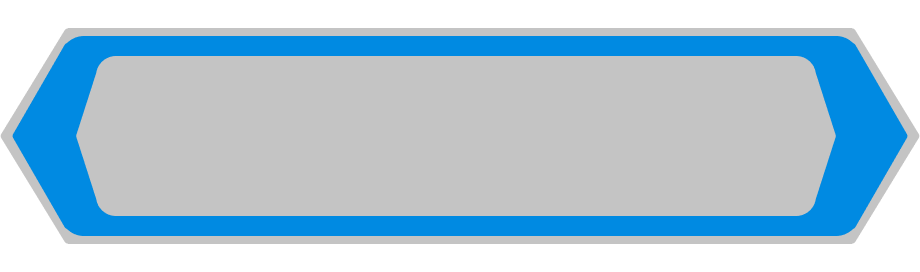
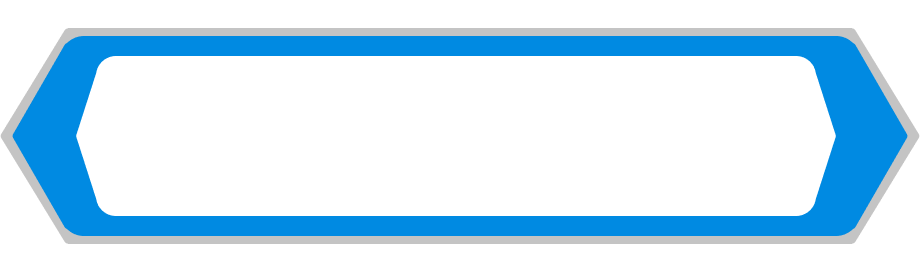
デザインが大体できた

diff --git a/src/App.tsx b/src/App.tsx
@@ -1,64 +1,96 @@
 import React, { useEffect, useCallback } from 'react';
+import { useNavigate } from 'react-router-dom';
 import './App.css';
 
 export const Game = () => {
   const [inputString, setinputString] = React.useState("")
+  const [typeStringlen, settypeStringlen] = React.useState(0)
+  const [answerTypeStringlen, setanswerTypeStringlen] = React.useState(0)
+  const navigate = useNavigate();
 
   useEffect(() => {
     document.addEventListener("keydown", keyFunction, false)
+    console.log("answernum", answerTypeStringlen)
   })
 
 
 
+
   const keyFunction = useCallback((event) => {
+    if (event.key == "Escape") {
+      navigate("/")
+    }
     setinputString(event.key)
   }, []);
 
 
   return (
     <div className='Game'>
-      <Inputbar answerString={inputString}></Inputbar>
+      <Inputbar answerString={inputString} updatetypeStringlen={settypeStringlen} updateanswerTypeStringlen={setanswerTypeStringlen} typeStringnum={typeStringlen} answerStringnum={answerTypeStringlen}></Inputbar>
     </div>
   )
 }
 
 type InputbarProps = {
   answerString: string;
+  typeStringnum: number;
+  answerStringnum: number;
+  updatetypeStringlen: any;
+  updateanswerTypeStringlen: any;
 }
 
 const Inputbar = (props: InputbarProps) => {
-  const questions: string[] = ["watnow", "gutti", "react", "vue", "kotlin", "swift", "python"]
+  const navigate = useNavigate();
+  const questions2: string[][] = [
+    ["烏丸丸太町", "karasumamarutamati"],
+    ["四条河原町", "sizyoukawaramati"],
+    ["葛野大路五条", "kadonooozigozyou"],
+    ["川端御池", "kawabataoike"],
+    ["川端二条","kawabatanizyou"],
+    ["北白川別当","kitashirakawabettou"],
+    ["荒神橋東詰","kouzinbashihigasidume"],
+    ["下鴨本通北大路","shimogamohondourikitaoozi"],
+    ["百万遍","hyakumanben"],
+    ["大宮木津屋橋","oomiyakiduyabashi"],
+    ["大宮七条","oomiyashitizyou"],
+    ["烏丸御池","karasumaoike"],
+    ["河原町御池","kawaramatioike"],
+    ["河原町八条","kawaramatihatizyou"],
+    ["五条七本松","gozyousitihonnmatu"],
+    ["五条御前","gozyouonmae"],
+    ["四条河原町","shizyoukawaramati"],
+    ["四条西洞院","sizyounishinotouin"],
+    ["四条堀川","shizyouhorikawa"],
+    ["七条壬生","shitizyoumibu"],
+    ["堀川高辻","horikawatakatuzi"],
+    ["西大路花屋町","nishioozihanayamati"],
+  ]
   const [counter, setCounter] = React.useState(0);
   const [questioncounter, setQuestioncounter] = React.useState(0);
   const [answerstring, setAnswer] = React.useState("");
-  const questionlength: number = questions[questioncounter].length;
-  const [gamestart, setGamestart] = React.useState(false);
-
-  // const handleKey = (e: React.KeyboardEvent<HTMLDivElement>) => {
-  //   judgement(e.key)
-  // }
-
-  const gameStart = () => {
-    setGamestart(true)
-  }
+  const [cssstyle, setCssStyle] = React.useState("")
+  const questionlength: number = questions2[questioncounter][1].length;
 
   const judgement = (value: string) => {
-    if (questions[questioncounter][counter] === value) {
+    if (questions2[questioncounter][1][counter] === value) {
       sound()
+      props.updateanswerTypeStringlen(props.answerStringnum + 1)
       setAnswer(answerstring + value)
       setCounter(counter + 1)
-      const c = counter
-      console.log("value", value, "counter", c)
-      console.log("正解")
     }
+    // props.updatetypeStringlen(props.typeStringnum + 1)
   }
 
   useEffect(() => {
-    if (gamestart) {
-      judgement(props.answerString)
+    if (questioncounter > 10) {
+      navigate("/result")
     }
+
+    judgement(props.answerString)
+
     if (questionlength === counter) {
       setQuestioncounter(questioncounter + 1)
+      setCssStyle("baranimation")
       setAnswer("")
       setCounter(0)
     }
@@ -73,7 +105,7 @@ const Inputbar = (props: InputbarProps) => {
 
 
 
-  const textOutputList = questions[questioncounter].split('').map((questionChar, index) => {
+  const textOutputList = questions2[questioncounter][1].split('').map((questionChar, index) => {
     return (
       <a><Textoutput key={questionChar} valuekey={index + 1} value={questionChar} answernum={counter}> </Textoutput></a>
     )
@@ -81,15 +113,15 @@ const Inputbar = (props: InputbarProps) => {
 
 
 
-    return (
-      <div className='inputbar'>
-        <div className='game'>
-          <QuestionBox question={questions} questionnum={questioncounter}></QuestionBox>
-          <div className='textOutput'>{textOutputList}</div>
-        </div>
+  return (
+    <div className={'inputbar ' + cssstyle}>
+      <div className='game'>
+        <QuestionBox question={questions2} questionnum={questioncounter}></QuestionBox>
+        <div className='textOutput'>{textOutputList}</div>
       </div>
-    )
-  
+    </div>
+  )
+
 }
 
 
@@ -102,7 +134,7 @@ type TextOutputProps = {
 }
 
 type QuestionProps = {
-  question: string[];
+  question: string[][];
   questionnum: number;
 }
 
@@ -110,7 +142,7 @@ type QuestionProps = {
 const QuestionBox = (props: QuestionProps) => {
   return (
     <div className='questionBox'>
-      {props.question[props.questionnum]}
+      {props.question[props.questionnum][0]}
     </div>
   );
 }

diff --git a/src/App.css b/src/App.css
@@ -1,18 +1,21 @@
 .inputbar {
-  background-image: url("../public/inputbar.png");
-  background-size: cover;
   border-radius: 2rem;
-  width: 70rem;
-  height: 20rem;
-  margin: 0 auto;
+  width: 100%;
+  padding-top: 20vh;
+  
+}
+
+.baranimation{
+    animation: anim 2.5s infinite linear;
 }
 
 .questionBox {
-  padding-top: 5rem;
-  font-size: 3rem;
+  padding-top: 5.5rem;
+  font-size: 5rem;
   height: 6rem;
   text-align: center;
-  color: whitesmoke;
+  color: #008AE2;
+  font-weight:bold
 }
 
 .textOutput {
@@ -23,34 +26,66 @@
 }
 
 .colorGray {
-  color: gray;
+  color: #008AE2;
 }
 
 .colorwhiteGray {
-  color: whitesmoke;
+  color: black;
+}
+
+.blue {
+  filter: invert(8%) sepia(99%) saturate(7044%) hue-rotate(247deg) brightness(100%) contrast(145%);
 }
 
 .Game {
   /* text-align: center; */
-  padding-top: 40vh;  
-}
-
-html{
   height: 100%;
-  color: whitesmoke;
+  background-image: url("../public/city.png");
+  background-size:cover;
+  /* backdrop-filter: invert(8%) sepia(99%) saturate(7044%) hue-rotate(247deg) brightness(100%) contrast(145%); */
+}
+
+.Game img{
+  filter: invert(8%) sepia(99%) saturate(7044%) hue-rotate(247deg) brightness(100%) contrast(145%);
+}
+
+.game {
+  background-image: url("../public/inputbar.png");
+  background-size: cover;
+  width: 70rem;
+  height: 20rem;
+  margin: 0 auto;
 }
 
 
-.startButton{
-  width: 10%;
-}
-
-.kanban{
+.kanban {
 
   width: 50rem;
 }
 
-.manue{
+.manue {
   width: 100%;
   text-align: center;
+}
+
+@keyframes animstart {
+  0% {
+    transform: translateX(200vw);
+  }
+
+
+  100% {
+    transform: translateX(0px);
+  }
+}
+
+@keyframes animend {
+  0% {
+    transform: translateX(0px);
+  }
+
+
+  100% {
+    transform: translateX(-200vh);
+  }
 }

diff --git a/src/start.tsx b/src/start.tsx
@@ -1,13 +1,29 @@
-import React from 'react';
-import { Link } from "react-router-dom";
-import './App.css';
+import React, { useEffect, useCallback } from 'react';
+import { useNavigate } from 'react-router-dom';
+import './start.css';
 
 export const Startview = () => {
+    const navigate = useNavigate();
+
+    useEffect(() => {
+        document.addEventListener("keydown", keyFunction, false)
+    }   
+    )
+
+    const keyFunction = useCallback((event) => {
+        console.log(event.key)
+        if (event.key == " ") {
+            navigate("game")
+        }
+    }, []);
+
     return (
         <div className='manue'>
-
-            <p><img className='kanban' src="./kanban.png"></img></p>
-            <p><Link to="game"><img className='startButton' src="./startbutton.png"></img></Link></p>
+            <div className='manuebar'>
+                <p><img className='kanban' src="./kanban.png"></img></p>
+                {/* <p><Link to="game"><img className='startButton' src="./start.png"></img></Link></p> */}
+                <p className='startButton'>スペースキーでスタート</p>
+            </div>
         </div>
     )
 }

diff --git a/src/RouterConfig.tsx b/src/RouterConfig.tsx
@@ -2,6 +2,7 @@ import React from "react";
 import { BrowserRouter, Routes, Route } from "react-router-dom";
 import { Startview } from "./start";
 import { Game } from "./App";
+import { Result } from "./result";
 
 export const RouterConfig: React.VFC = () => {
     return (
@@ -9,7 +10,8 @@ export const RouterConfig: React.VFC = () => {
             <BrowserRouter>
                 <Routes>
                     <Route index element={<Startview />} />
-                    <Route path="game" element={<Game/>} />
+                    <Route path="game" element={<Game />} />
+                    <Route path="result" element={<Result/>}/>
                 </Routes>
             </BrowserRouter>
         </>

diff --git a/src/index.css b/src/index.css
@@ -1,5 +1,5 @@
 body {
-  margin: 0;
+  margin: 0 0;
   height: 100%;
   font-family: -apple-system, BlinkMacSystemFont, 'Segoe UI', 'Roboto', 'Oxygen',
     'Ubuntu', 'Cantarell', 'Fira Sans', 'Droid Sans', 'Helvetica Neue',
@@ -11,4 +11,13 @@ body {
 code {
   font-family: source-code-pro, Menlo, Monaco, Consolas, 'Courier New',
     monospace;
+}
+
+#root{
+  height: 100%;
+}
+
+html {
+  height: 100%;
+  color: whitesmoke;
 }

diff --git a/src/start.css b/src/start.css
@@ -1,0 +1,23 @@
+.manue{
+    height: 100%;
+    background-image: url("../public/city.png");
+    background-size: cover;
+    /* padding: 10rem; */
+}
+
+.manuebar{
+    padding-top: 6rem;
+}
+
+.startButton{
+    padding-top:30rem;
+    width: 100%;
+    color: #008AE2;
+    text-align: center;
+    font-family: "Nico Moji";
+    font-size: 5rem;
+}
+
+
+
+

diff --git a/src/index.tsx b/src/index.tsx
@@ -6,6 +6,7 @@ import { RouterConfig } from './RouterConfig';
 
 ReactDOM.render(
   <React.StrictMode>
+    <link href="https://fonts.googleapis.com/earlyaccess/nicomoji.css" rel="stylesheet"></link>
     <RouterConfig></RouterConfig>
   </React.StrictMode>,
   document.getElementById('root')

diff --git a/src/result.tsx b/src/result.tsx
@@ -1,0 +1,10 @@
+import React from 'react';
+
+export const Result = () => {
+    return (
+        <div>
+            リザルト
+        </div>
+    );
+}
+
